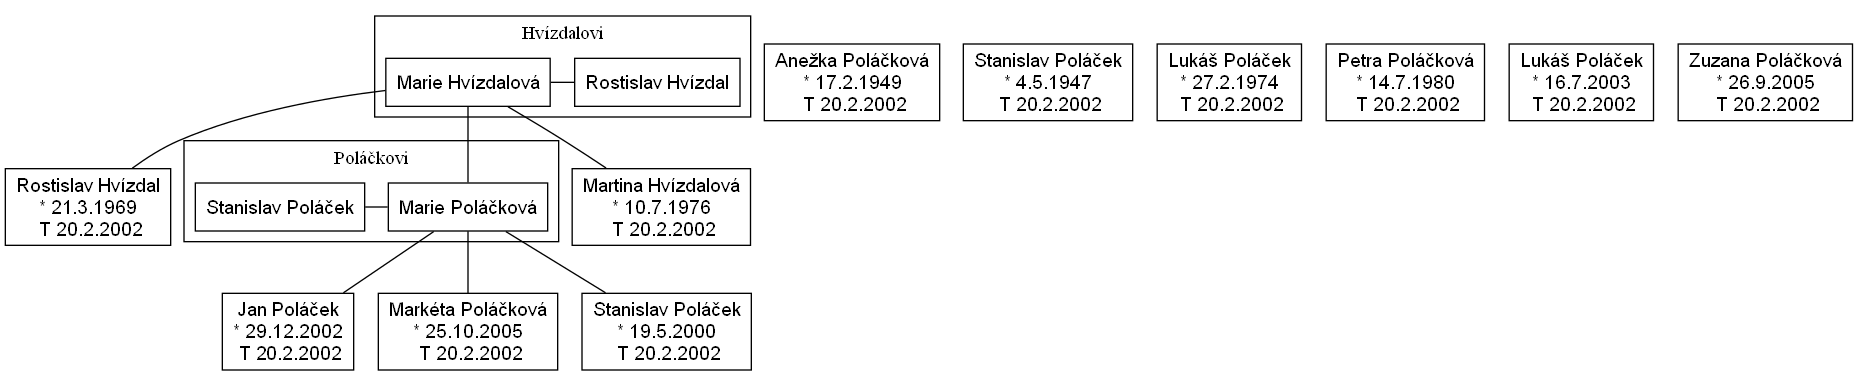
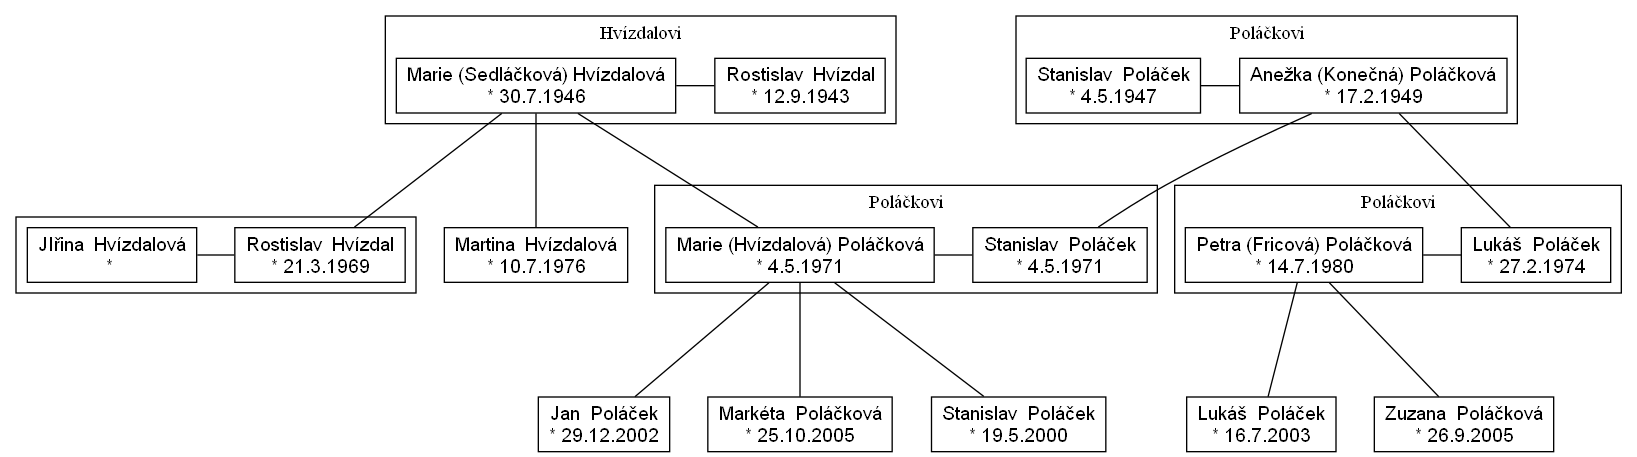
Reworked node texts

diff --git a/ui.py b/ui.py
@@ -4,12 +4,11 @@ from PIL import Image, ImageTk
 from tkinter import simpledialog
 
 from model import Data, Person, Couple
-from model import test_data
 
 WINDOW_WIDTH = 1200
 WINDOW_HEIGHT = 700
 
-class PersonDialog(simpledialog.Dialog): # TODO - need to be change if Person changes
+class PersonDialog(simpledialog.Dialog):
     def __init__(self, parent, title):
         super().__init__(parent, title)
         
@@ -43,13 +42,13 @@ class PersonDialog(simpledialog.Dialog): # TODO - need to be change if Person ch
         self.result = Person(name, surname, born=born_date, death=death_date, birth_surname=birth_surname)
 
 
-class CoupleDialog(simpledialog.Dialog): # TODO - need to be change if Couple changes
+class CoupleDialog(simpledialog.Dialog):
     def __init__(self, parent, title, data):
         self.data = data
         self.selected_kids = []
         super().__init__(parent, title)
 
-    def body(self, master): # Add new Person for mother/father
+    def body(self, master):
         tk.Label(master, text="Choose paretns:").grid(row=0, columnspan=2)
         tk.Label(master, text="Mother:").grid(row=1)
 
@@ -96,7 +95,6 @@ class CoupleDialog(simpledialog.Dialog): # TODO - need to be change if Couple ch
         self.add_child_button = tk.Button(master, text="Add Child", command=self.add_child)
         self.add_child_button.grid(row=6, column=1, columnspan=2)
 
-        # TODO Add other couple atributes
 
     def apply(self):
         mother_name = self.mother_var.get()
@@ -121,7 +119,6 @@ class CoupleDialog(simpledialog.Dialog): # TODO - need to be change if Couple ch
         self.add_person(self.father_var)
         
     def add_child(self):
-        # Create a new person and add it to the children list
         child_dialog = PersonDialog(self, title="Add Child")
         result = child_dialog.result
 
@@ -129,7 +126,7 @@ class CoupleDialog(simpledialog.Dialog): # TODO - need to be change if Couple ch
             self.data.people.append(result)
             self.kids_listbox.insert(tk.END, result.get_name())
 
-    def add_person(self, var): # copy of a method
+    def add_person(self, var):
         name_dialog = PersonDialog(self, title="Add Person")
         result = name_dialog.result
 
@@ -228,11 +225,11 @@ class FamilyTreeUI:
 
         self.image_canvas.load_image()
 
+
     def add_person(self):
         name_dialog = PersonDialog(self.root, title="Add Person")
         result = name_dialog.result
 
-        # maybe some validation??
         if result:
             self.data.people.append(result)
             self.data.draw_family_tree()
@@ -244,7 +241,6 @@ class FamilyTreeUI:
         couple_dialog = CoupleDialog(self.root, title="Add Couple", data=self.data)
         result = couple_dialog.result
 
-        # maybe some validation??
         if result:
             self.data.couples.append(result)
             self.data.draw_family_tree()
@@ -256,14 +252,14 @@ class FamilyTreeUI:
         self.image_canvas.reset_image()
     
     def save(self):
-        self.data.export_data()
+        self.data.io.export_data()
         self.root.after(100, lambda: self.save_button.config(bg='green'))
         
     def run(self):
         self.root.mainloop()
 
 
-if __name__ == "__main__": # maybe move this to main.py?
+if __name__ == "__main__":
     data = Data([], [])
     family_tree_ui = FamilyTreeUI(data)
     family_tree_ui.run()

diff --git a/model.py b/model.py
@@ -17,21 +17,22 @@ class Data:
             p, c = test_data()
             self.people = p
             self.couples = c
-            return
+        self.draw_family_tree()
     
     def draw_family_tree(self):
         family_tree = Graph(comment='Family Tree')
 
         family_tree.attr('node', shape='box', rankdir='TB', fontname='Arial', splines='ortho')
+        family_tree.attr(ranksep='1.2',  nodesep='0.4')
 
         for person in self.people:
-            family_tree.node(str(person.id), f'{person.name} {person.surname}\n* {person.born}\n T 20.2.2002')
+            family_tree.node(str(person.id), person.node_data())
 
         for couple in self.couples:
             with family_tree.subgraph(name=f'cluster_{str(couple.mother.id)}_{str(couple.father.id)}') as sg:
                 sg.attr(label=f'{couple.family_surname}')
-                sg.node(str(couple.mother.id), f'{couple.mother.name} {couple.mother.surname}')
-                sg.node(str(couple.father.id), f'{couple.father.name} {couple.father.surname}')
+                sg.node(str(couple.mother.id), couple.mother.node_data())
+                sg.node(str(couple.father.id), couple.father.node_data())
                                 
                 sg.edge(str(couple.mother.id), str(couple.father.id), constraint='false')
 
@@ -70,8 +71,9 @@ class Person:
         return f"{self.name} {self.surname} ({self.born})"
     
     def node_data(self):
-        birth_name = f"(birth_surname)" if self.birth_surname != "" else ""
-        return f'{person.name} {birth_name} {person.surname}\n* {person.born}\n T {person.death}'
+        birth_name = f"({self.birth_surname})" if self.birth_surname != "" else ""
+        death = f"\n+ {self.death}" if self.death else ""
+        return f'{self.name} {birth_name} {self.surname}\n* {self.born}{death}'
 
 class Couple:
     def __init__(self, mother, father, family_surname, marriage="1.1.2000", children=[]):
